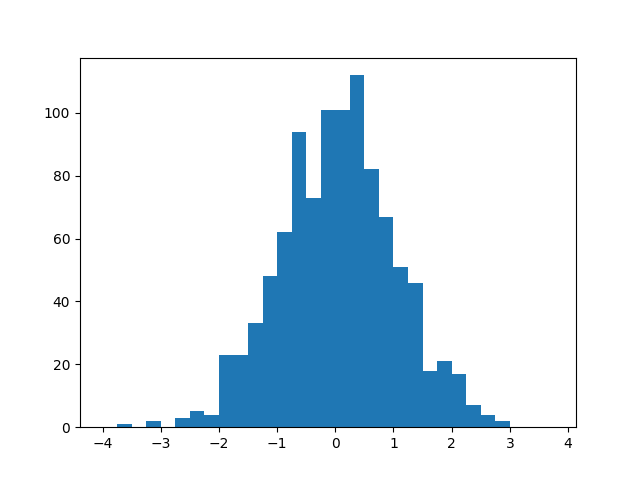
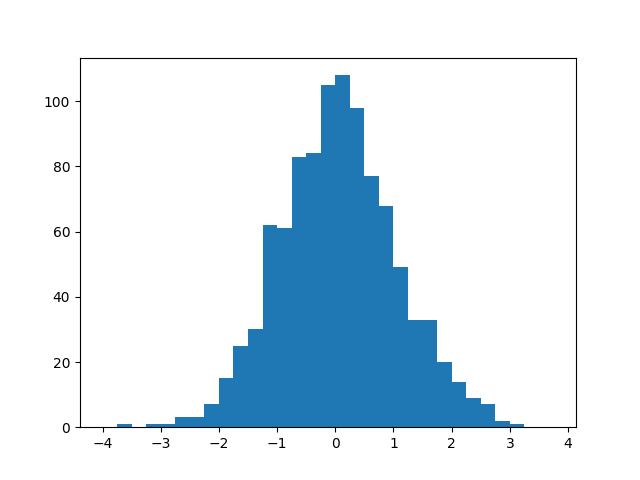
Made all normal curves

diff --git a/lab5/median_income_graphing.py b/lab5/median_income_graphing.py
@@ -32,7 +32,14 @@ def central_limit_histogram(incomes, samples, trials, filen, directory):
     if not os.path.exists('Graphs/'+directory):
         os.makedirs('Graphs/'+directory)
 
-    graphing.makeHist(sampleMeans, np.arange(0,100000,2000), (str(directory)+'/'+filen))
+    graphing.makeHist(sampleMeans, np.arange(0,100000,200), (str(directory)+'/'+filen))
 
 if __name__ == '__main__':
-    central_limit_histogram(incomes, 50, 100, "normal1.png", "la_incomes_normals")
+    central_limit_histogram(incomes, 50, 100, "normal50.png", "la_incomes_normals")
+    central_limit_histogram(incomes, 100, 100, "normal100.png", "la_incomes_normals")
+
+    central_limit_histogram(incomes, 500, 100, "normal500.png", "la_incomes_normals")
+    central_limit_histogram(incomes, 1000, 100, "normal1000.png", "la_incomes_normals")
+    
+    central_limit_histogram(incomes, 5000, 100, "normal5000.png", "la_incomes_normals")
+    central_limit_histogram(incomes, 10000, 100, "normal10000.png", "la_incomes_normals")
